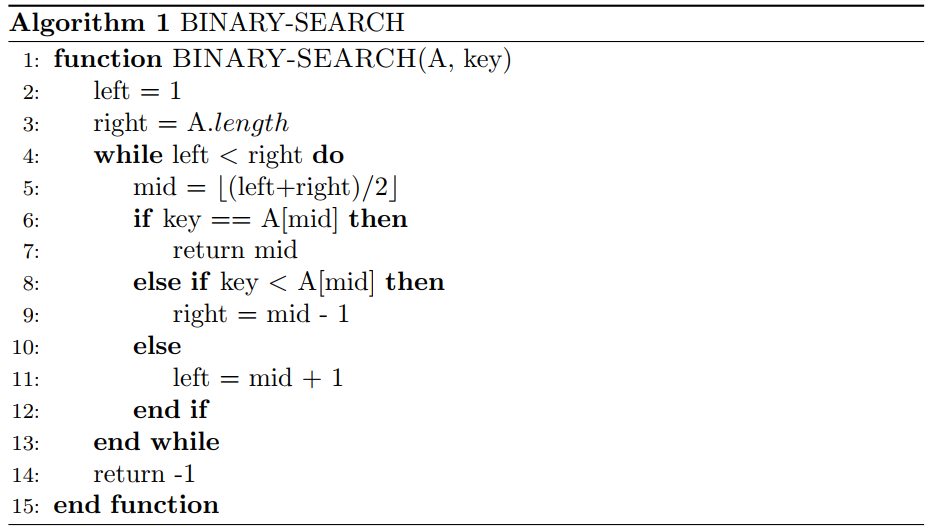
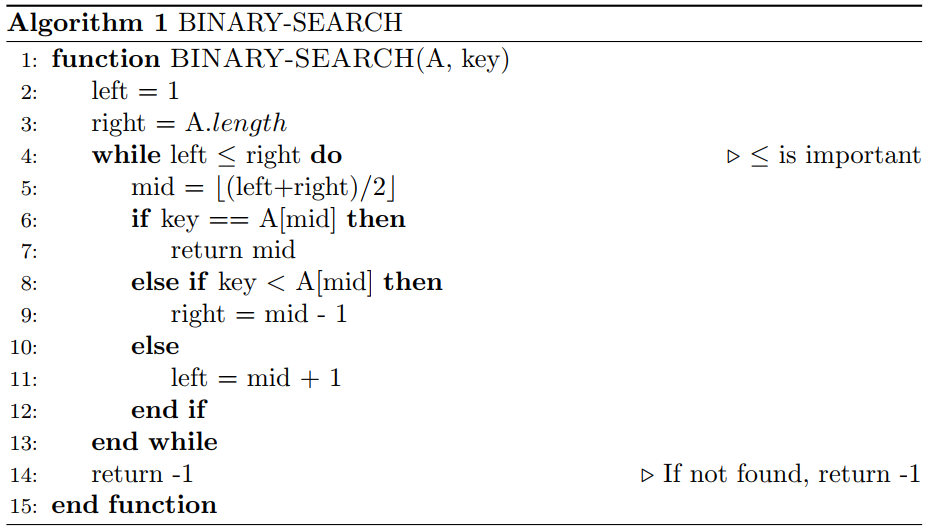
Bug fix for binary search

diff --git a/ch02/assets/binary_search.tex b/ch02/assets/binary_search.tex
@@ -10,7 +10,7 @@
 		\Function{BINARY-SEARCH}{A, key}
 		\State left = 1
 		\State right = A.$length$
-		\While{left $<$ right}
+		\While{left $\le$ right} \Comment{$\le$ is important}
 		  \State mid = $\lfloor$(left+right)/2$\rfloor$
 		  \If{key $==$ A[mid]}
 		    \State return mid
@@ -20,7 +20,7 @@
 		    \State left = mid + 1
 		  \EndIf
 		\EndWhile
-		\State return -1
+		\State return -1 \Comment{If not found, return -1}
 		\EndFunction
 		
 	\end{algorithmic}
